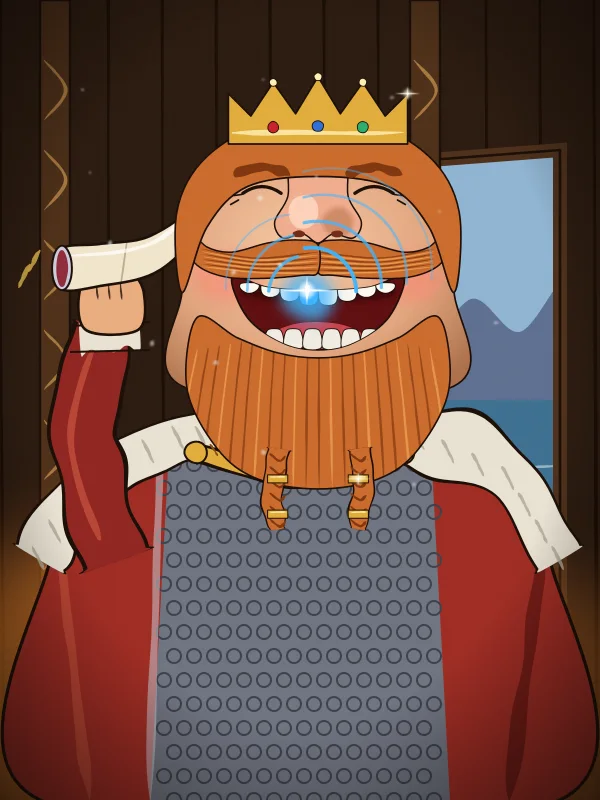
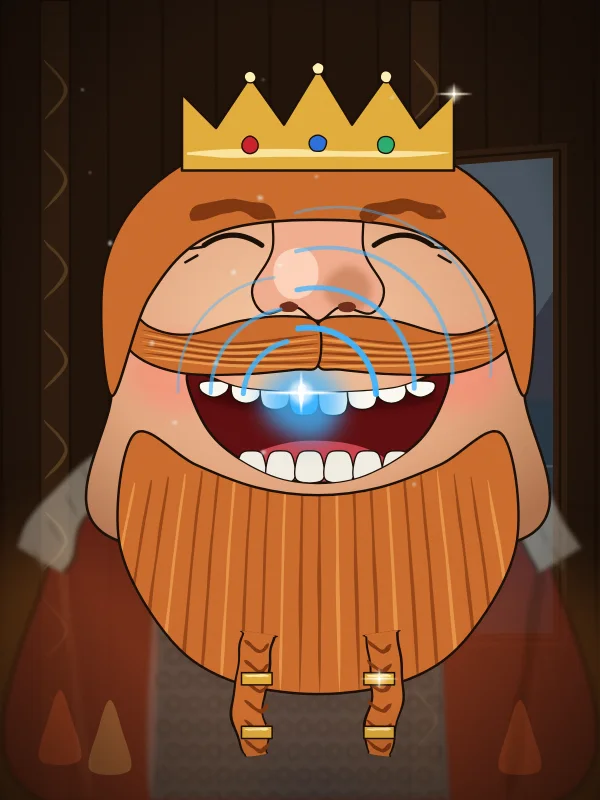
Demo: every card has its illustration

diff --git a/index.html b/index.html
@@ -1,7 +1,7 @@
 <!DOCTYPE html>
 <html lang="en">
 <head>
-  <script src="play-shim.js?202609282345"></script>
+  <script src="play-shim.js?202609282350"></script>
   <meta charset="UTF-8" />
   <!-- the tab icon, declared: without it every browser asks the site root for /favicon.ico (a 404 on Pages) -->
   <link rel="icon" type="image/png" href="assets/icons/icon-192.png" />
@@ -15,25 +15,25 @@
   <meta name="apple-mobile-web-app-status-bar-style" content="black-translucent" />
   <meta name="apple-mobile-web-app-title" content="Paradox" />
   <link rel="apple-touch-icon" href="assets/icons/apple-touch-icon.png" />
-  <script src="js/touch.js?202609282345"></script>
+  <script src="js/touch.js?202609282350"></script>
   <title>Paradox: The Last Timeline</title>
   <meta name="description" content="Paradox: The Last Timeline. After the Incursion shattered time, one timeline is left, and it is sacred. A competitive time-travel board game by Rafael Reis Garcia." />
   <!-- Identity type: Oswald (institutional display), JetBrains Mono (terminal data),
        Inter (humanist body). Self-host these for the offline Tauri build later. -->
-  <link href="fonts/fonts.css?202609282345" rel="stylesheet" />
-  <link rel="stylesheet" href="styles/app.css?202609282345" />
-  <link rel="stylesheet" href="styles/tutorial.css?202609282345" />
-  <link rel="stylesheet" href="styles/menu.css?202609282345" />
-  <link rel="stylesheet" href="styles/resume.css?202609282345" />
-  <link rel="stylesheet" href="styles/access.css?202609282345" />
-  <link rel="stylesheet" href="styles/fx.css?202609282345" />
-  <link rel="stylesheet" href="styles/help.css?202609282345" />
-  <link rel="stylesheet" href="styles/chronicle.css?202609282345" />
-  <link rel="stylesheet" href="styles/theme.css?202609282345" />
-  <link rel="stylesheet" href="styles/trailer.css?202609282345" />
-  <link rel="stylesheet" href="styles/card-art.css?202609282345" />
-  <link rel="stylesheet" href="styles/mobile.css?202609282345" />
-  <script type="module" src="js/trailer.js?202609282345"></script>
+  <link href="fonts/fonts.css?202609282350" rel="stylesheet" />
+  <link rel="stylesheet" href="styles/app.css?202609282350" />
+  <link rel="stylesheet" href="styles/tutorial.css?202609282350" />
+  <link rel="stylesheet" href="styles/menu.css?202609282350" />
+  <link rel="stylesheet" href="styles/resume.css?202609282350" />
+  <link rel="stylesheet" href="styles/access.css?202609282350" />
+  <link rel="stylesheet" href="styles/fx.css?202609282350" />
+  <link rel="stylesheet" href="styles/help.css?202609282350" />
+  <link rel="stylesheet" href="styles/chronicle.css?202609282350" />
+  <link rel="stylesheet" href="styles/theme.css?202609282350" />
+  <link rel="stylesheet" href="styles/trailer.css?202609282350" />
+  <link rel="stylesheet" href="styles/card-art.css?202609282350" />
+  <link rel="stylesheet" href="styles/mobile.css?202609282350" />
+  <script type="module" src="js/trailer.js?202609282350"></script>
   <!-- TEXT SIZE and the ACCESSIBLE INTERFACE apply before the first paint, so the
        menu never flashes at the wrong size (main.js wires the controls). -->
   <script>
@@ -609,10 +609,10 @@
     };
   })();
   </script>
-  <script type="module" src="js/menu-panels.js?202609282345"></script>
-  <script type="module" src="js/menu-persona.js?202609282345"></script>
-  <script type="module" src="js/main.js?202609282345"></script>
-  <script type="module" src="js/mobile-table.js?202609282345"></script>
+  <script type="module" src="js/menu-panels.js?202609282350"></script>
+  <script type="module" src="js/menu-persona.js?202609282350"></script>
+  <script type="module" src="js/main.js?202609282350"></script>
+  <script type="module" src="js/mobile-table.js?202609282350"></script>
 <div id="build-stamp" style="position:fixed;left:8px;top:calc(100vh - 16px);z-index:9999;font:10px/1.2 monospace;color:#8a8578;opacity:.45;pointer-events:none">BUILD v197</div>
 <div id="stale-banner" style="display:none;position:fixed;left:50%;bottom:14px;transform:translateX(-50%);z-index:10000;background:#7a1c10;color:#ffe9b0;font:bold 12px/1 monospace;padding:9px 16px;border-radius:6px;box-shadow:0 4px 18px rgba(0,0,0,.5)">NEW BUILD ON THE SERVER: PRESS F5 (Ctrl+Shift+R)</div>
 <script>
@@ -630,10 +630,10 @@
   check(); setInterval(check, 45000);
 })();
 </script>
-<script src="js/board_draft.js?202609282345"></script>
-<script src="js/leilao_fase.js?202609282345"></script>
-<script src="js/board_singularity.js?202609282345"></script>
-<script src="js/board_origins.js?202609282345"></script>
-    <script src="js/cabin.js?202609282345"></script>
+<script src="js/board_draft.js?202609282350"></script>
+<script src="js/leilao_fase.js?202609282350"></script>
+<script src="js/board_singularity.js?202609282350"></script>
+<script src="js/board_origins.js?202609282350"></script>
+    <script src="js/cabin.js?202609282350"></script>
 </body>
 </html>

diff --git a/js/main.js b/js/main.js
@@ -1,21 +1,21 @@
 /* =========================================================================
    main.js, entry point: landing, lobby, and message routing into the Game
    ========================================================================= */
-import { api, Connection } from "./net.js?202609282345";
-import { hydrateIcons, icon } from "./icons.js?202609282345";
-import { seatColor, initials, el } from "./util.js?202609282345";
-import { Game } from "./game.js?202609282345";
-import { audio } from "./audio.js?202609282345";
-import { tutorials } from "./tutorial.js?202609282345";
-import { profile } from "./profile.js?202609282345";
-import { access } from "./access.js?202609282345";
+import { api, Connection } from "./net.js?202609282350";
+import { hydrateIcons, icon } from "./icons.js?202609282350";
+import { seatColor, initials, el } from "./util.js?202609282350";
+import { Game } from "./game.js?202609282350";
+import { audio } from "./audio.js?202609282350";
+import { tutorials } from "./tutorial.js?202609282350";
+import { profile } from "./profile.js?202609282350";
+import { access } from "./access.js?202609282350";
 import "./menu-cursor.js";
 import "./help.js";
-import { colourPicker, colourWish } from "./chronicle.js?202609282345";
-import { launchTutorial } from "./tutorial-drive.js?202609282345";
-import { PadCursor } from "./controle.js?202609282345";
-import { fx, PACES, LEVELS } from "./fx.js?202609282345";
-import { initResume, leaveWords } from "./resume.js?202609282345";
+import { colourPicker, colourWish } from "./chronicle.js?202609282350";
+import { launchTutorial } from "./tutorial-drive.js?202609282350";
+import { PadCursor } from "./controle.js?202609282350";
+import { fx, PACES, LEVELS } from "./fx.js?202609282350";
+import { initResume, leaveWords } from "./resume.js?202609282350";
 
 hydrateIcons(document);
 // the auction-phase module (an IIFE outside the module graph) draws the live

diff --git a/js/game.js b/js/game.js
@@ -11,21 +11,21 @@
    the others before all matrices reveal together. Dice support both drag-drop
    and click-to-place. Visual identity per styles/app.css.
    ========================================================================= */
-import { icon } from "./icons.js?202609282345";
-import { cardArtImg, cardTicket } from "./card-art.js?202609282345";
-import { audio } from "./audio.js?202609282345";
+import { icon } from "./icons.js?202609282350";
+import { cardArtImg, cardTicket } from "./card-art.js?202609282350";
+import { audio } from "./audio.js?202609282350";
 if (typeof window !== "undefined") window.__audio = audio;
-import { juice } from "./juice.js?202609282345";
-import { comic } from "./comic.js?202609282345";
-import { fx } from "./fx.js?202609282345";
-import { CatEngine } from "./cat.js?202609282345";
-import { tutorials } from "./tutorial.js?202609282345";
-import { profile } from "./profile.js?202609282345";
-import { Camera } from "./camera.js?202609282345";
+import { juice } from "./juice.js?202609282350";
+import { comic } from "./comic.js?202609282350";
+import { fx } from "./fx.js?202609282350";
+import { CatEngine } from "./cat.js?202609282350";
+import { tutorials } from "./tutorial.js?202609282350";
+import { profile } from "./profile.js?202609282350";
+import { Camera } from "./camera.js?202609282350";
 import {
   PALETTE, ERAS, FUNCTIONS, CENTURY_MAX, MILESTONES, SECRET_MARKET,
   roman, centuryToPct, seatColor, initials, el, eraColor, eraName, esc, setHelaColour,
-} from "./util.js?202609282345";
+} from "./util.js?202609282350";
 
 // The Auction is phase 1 of the normal turn, not a separate mode: a dimensional
 // window that comes before Delivery the way Delivery comes before Market. So it

diff --git a/js/resume.js b/js/resume.js
@@ -14,11 +14,11 @@
    older build of the game says so and offers only Discard: another game code may
    deal other dice from the same seed.
    ========================================================================= */
-import { seatColor } from "./util.js?202609282345";
-import { hydrateIcons } from "./icons.js?202609282345";
+import { seatColor } from "./util.js?202609282350";
+import { hydrateIcons } from "./icons.js?202609282350";
 // Learn to Play keeps its lesson beside the record (tutorial-drive.js): a Reconnect
 // in the middle of the lessons goes back to HELA's coach, lesson and all
-import { resumeTutorial, readLesson, dropLesson } from "./tutorial-drive.js?202609282345";
+import { resumeTutorial, readLesson, dropLesson } from "./tutorial-drive.js?202609282350";
 
 const KEY = "pdx.resume.v1";           // play-shim.js writes the same key
 const IN_MATCH = "pdx.inMatch";         // sessionStorage: a match was on screen in this tab

diff --git a/mesa.html b/mesa.html
@@ -6,8 +6,8 @@
   <link rel="icon" type="image/png" href="assets/icons/icon-192.png" />
   <meta name="viewport" content="width=device-width, initial-scale=1.0" />
   <title>PARADOXO · Split-screen table</title>
-  <link href="fonts/fonts.css?202609282345" rel="stylesheet" />
-  <link rel="stylesheet" href="styles/mesa.css?202609282345" />
+  <link href="fonts/fonts.css?202609282350" rel="stylesheet" />
+  <link rel="stylesheet" href="styles/mesa.css?202609282350" />
 </head>
 <body>
   <!-- The split-screen table: one monitor, up to four panels, one Xbox controller
@@ -69,6 +69,6 @@
   <section id="table" class="table" hidden></section>
   <button id="btn-leave" class="leave" type="button" title="End the table" hidden>&#x2715;</button>
 
-  <script type="module" src="js/mesa.js?202609282345"></script>
+  <script type="module" src="js/mesa.js?202609282350"></script>
 </body>
 </html>

diff --git a/js/chronicle.js b/js/chronicle.js
@@ -49,10 +49,10 @@
      window.__pdxChronicle.snapshot()   the stable shape above
      window.__pdxChronicle.tutorialDone()     Learn to Play finished
    ========================================================================= */
-import { profile } from "./profile.js?202609282345";
-import { audio } from "./audio.js?202609282345";
-import { roman, esc, seatColor } from "./util.js?202609282345";
-import { THEMES, THEME_BY_ID, TIER_NAME, applyTheme } from "./theme.js?202609282345";
+import { profile } from "./profile.js?202609282350";
+import { audio } from "./audio.js?202609282350";
+import { roman, esc, seatColor } from "./util.js?202609282350";
+import { THEMES, THEME_BY_ID, TIER_NAME, applyTheme } from "./theme.js?202609282350";
 
 const PANEL = (() => {
   try { return parseInt(new URLSearchParams(location.search).get("panel")) || 0; } catch (e) { return 0; }

diff --git a/js/tutorial-drive.js b/js/tutorial-drive.js
@@ -15,11 +15,11 @@
    back and the match plays on to its real end.
    ========================================================================= */
 
-import { api, Connection } from "./net.js?202609282345";
-import { Game } from "./game.js?202609282345";
-import { icon } from "./icons.js?202609282345";
-import { roman } from "./util.js?202609282345";
-import { profile } from "./profile.js?202609282345";
+import { api, Connection } from "./net.js?202609282350";
+import { Game } from "./game.js?202609282350";
+import { icon } from "./icons.js?202609282350";
+import { roman } from "./util.js?202609282350";
+import { profile } from "./profile.js?202609282350";
 
 const R = (v) => roman(v);
 // ON A PHONE OR A TABLET her lines name what a finger touches, not keys (js/touch.js

diff --git a/js/card-art.js b/js/card-art.js
@@ -57,6 +57,10 @@ export const CARD_ART = new Set([
   "haralds_bluetooth",
   "reality_simulator",
   "object_teleporter",
+  "first_time_machine",
+  "window_of_time",
+  "woodblock_print",
+  "relative_dimensions_operative",
 ]);
 
 // the cards whose function name is not the slug of their English name
@@ -124,8 +128,11 @@ const CROP = {
   alan_turings_machine: "50% 50%",
   quantum_computer: "50% 46%",
   first_smartphone: "50% 58%",
-  haralds_bluetooth: "44% 54%",
+  haralds_bluetooth: "50% 48%",
   object_teleporter: "50% 60%",
+  first_time_machine: "50% 56%",
+  woodblock_print: "50% 70%",
+  relative_dimensions_operative: "50% 62%",
 };
 
 // the <img> for a card's illustration (lazy, async, 2x for dense screens; its box is sized by CSS,

diff --git a/js/comic.js b/js/comic.js
@@ -28,8 +28,8 @@
    opacity, each removed when it ends. Server-sent text only via textContent.
    game.js calls: init, onEvent, onDecision, onRespond, emanata, preview.
    ========================================================================= */
-import { roman } from "./util.js?202609282345";
-import { mend } from "./mend.js?202609282345";
+import { roman } from "./util.js?202609282350";
+import { mend } from "./mend.js?202609282350";
 
 const NOTES_KEY = "pdx-cx-notes";                 // Settings: HELA's footnotes on/off
 const SLOW = { slow: 2, normal: 1, brisk: 1, fast: 1 };   // Brisk and Fast never shorten a reading time

diff --git a/js/mesa.js b/js/mesa.js
@@ -15,9 +15,9 @@
    The server rule that shapes this: a seat with no connection is played by
    the bot at once. So the table only starts once EVERY panel is connected.
    ========================================================================= */
-import { readPad } from "./controle.js?202609282345";
-import { api } from "./net.js?202609282345";
-import { PALETTE } from "./util.js?202609282345";
+import { readPad } from "./controle.js?202609282350";
+import { api } from "./net.js?202609282350";
+import { PALETTE } from "./util.js?202609282350";
 
 const MAX_PANELS = 4;
 const LS_KEY = "paradoxo.table.v1";

diff --git a/play-worker.js b/play-worker.js
@@ -9,7 +9,7 @@ async function boot() {
   // A fixed string hash: a match rebuilt after a reload (Reconnect) runs in a new
   // interpreter, and nothing in it may depend on a per-run hash order.
   const pyodide = await loadPyodide({ env: { PYTHONHASHSEED: "0" } });
-  const zip = await (await fetch("game.zip?202609282345")).arrayBuffer();
+  const zip = await (await fetch("game.zip?202609282350")).arrayBuffer();
   pyodide.FS.writeFile("/game.zip", new Uint8Array(zip));
   pyodide.runPython("import sys; sys.path.insert(0, '/game.zip')");
   server = pyodide.pyimport("play_server");

diff --git a/js/help.js b/js/help.js
@@ -19,7 +19,7 @@
    window.__pdxHelp = { isHeld, onHold, hold, isOpen, onOpen, open, close,
      toggle, note, overload, panel, placer } (the tutorial teaches Tab through it).
    ========================================================================= */
-import { FUNCTIONS } from "./util.js?202609282345";
+import { FUNCTIONS } from "./util.js?202609282350";
 
 const HOLD_MS = 250;        // a press held this long is a hold; shorter is a tap
 const NOTES_MAX = 3;        // HELA's notes shown on the hold view, newest first
